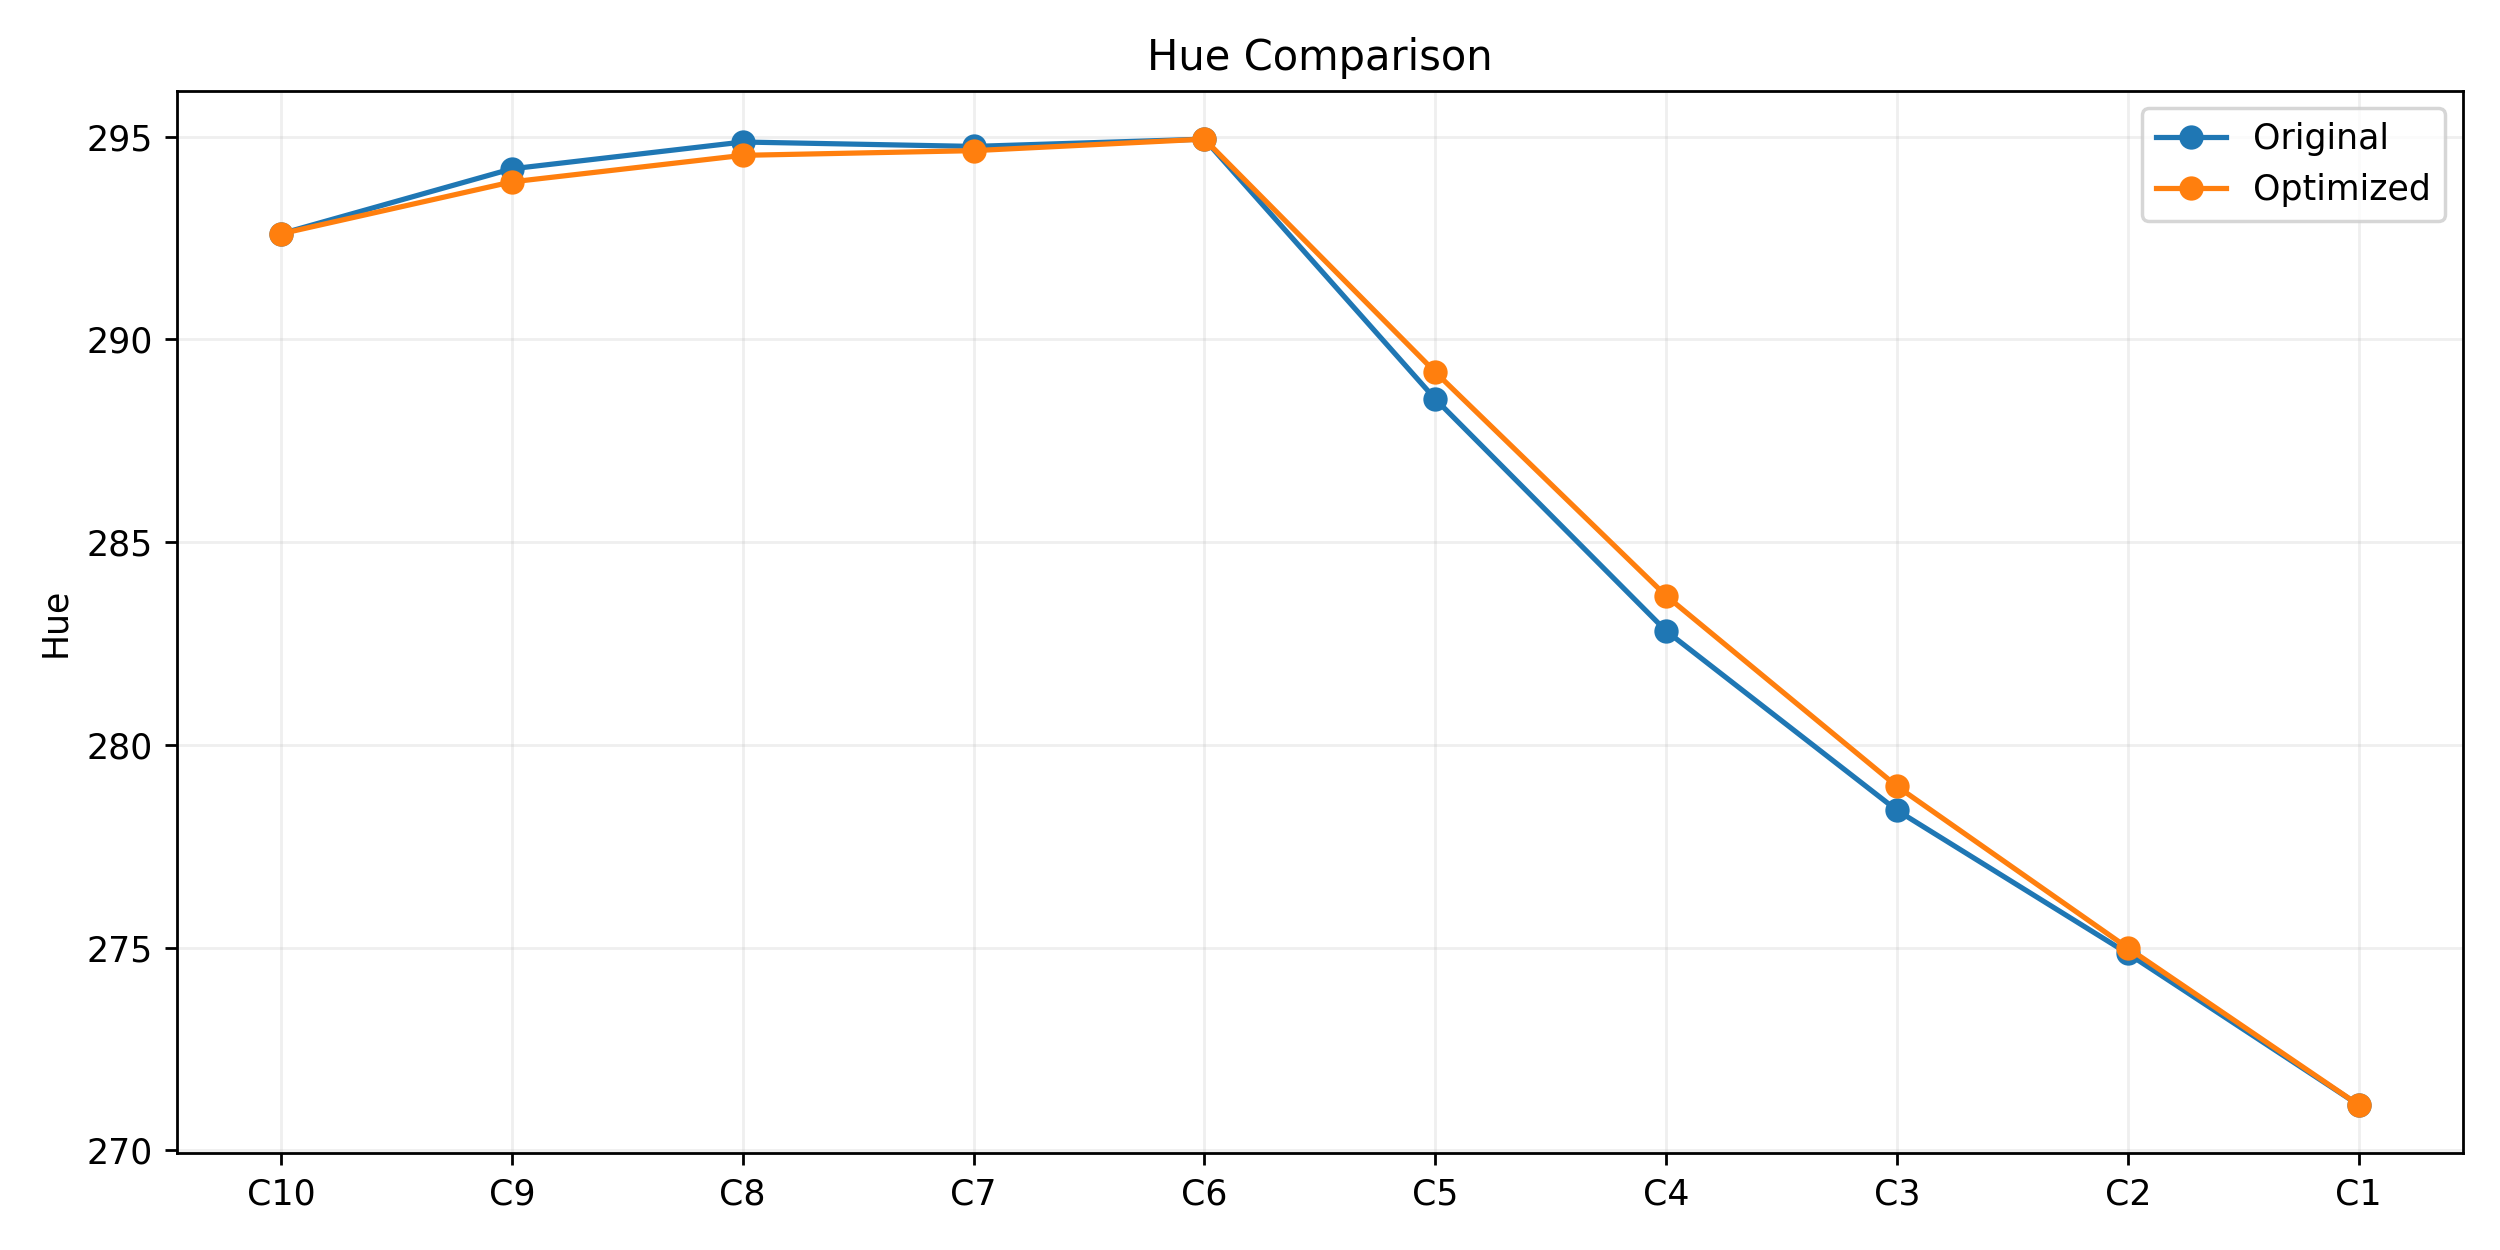
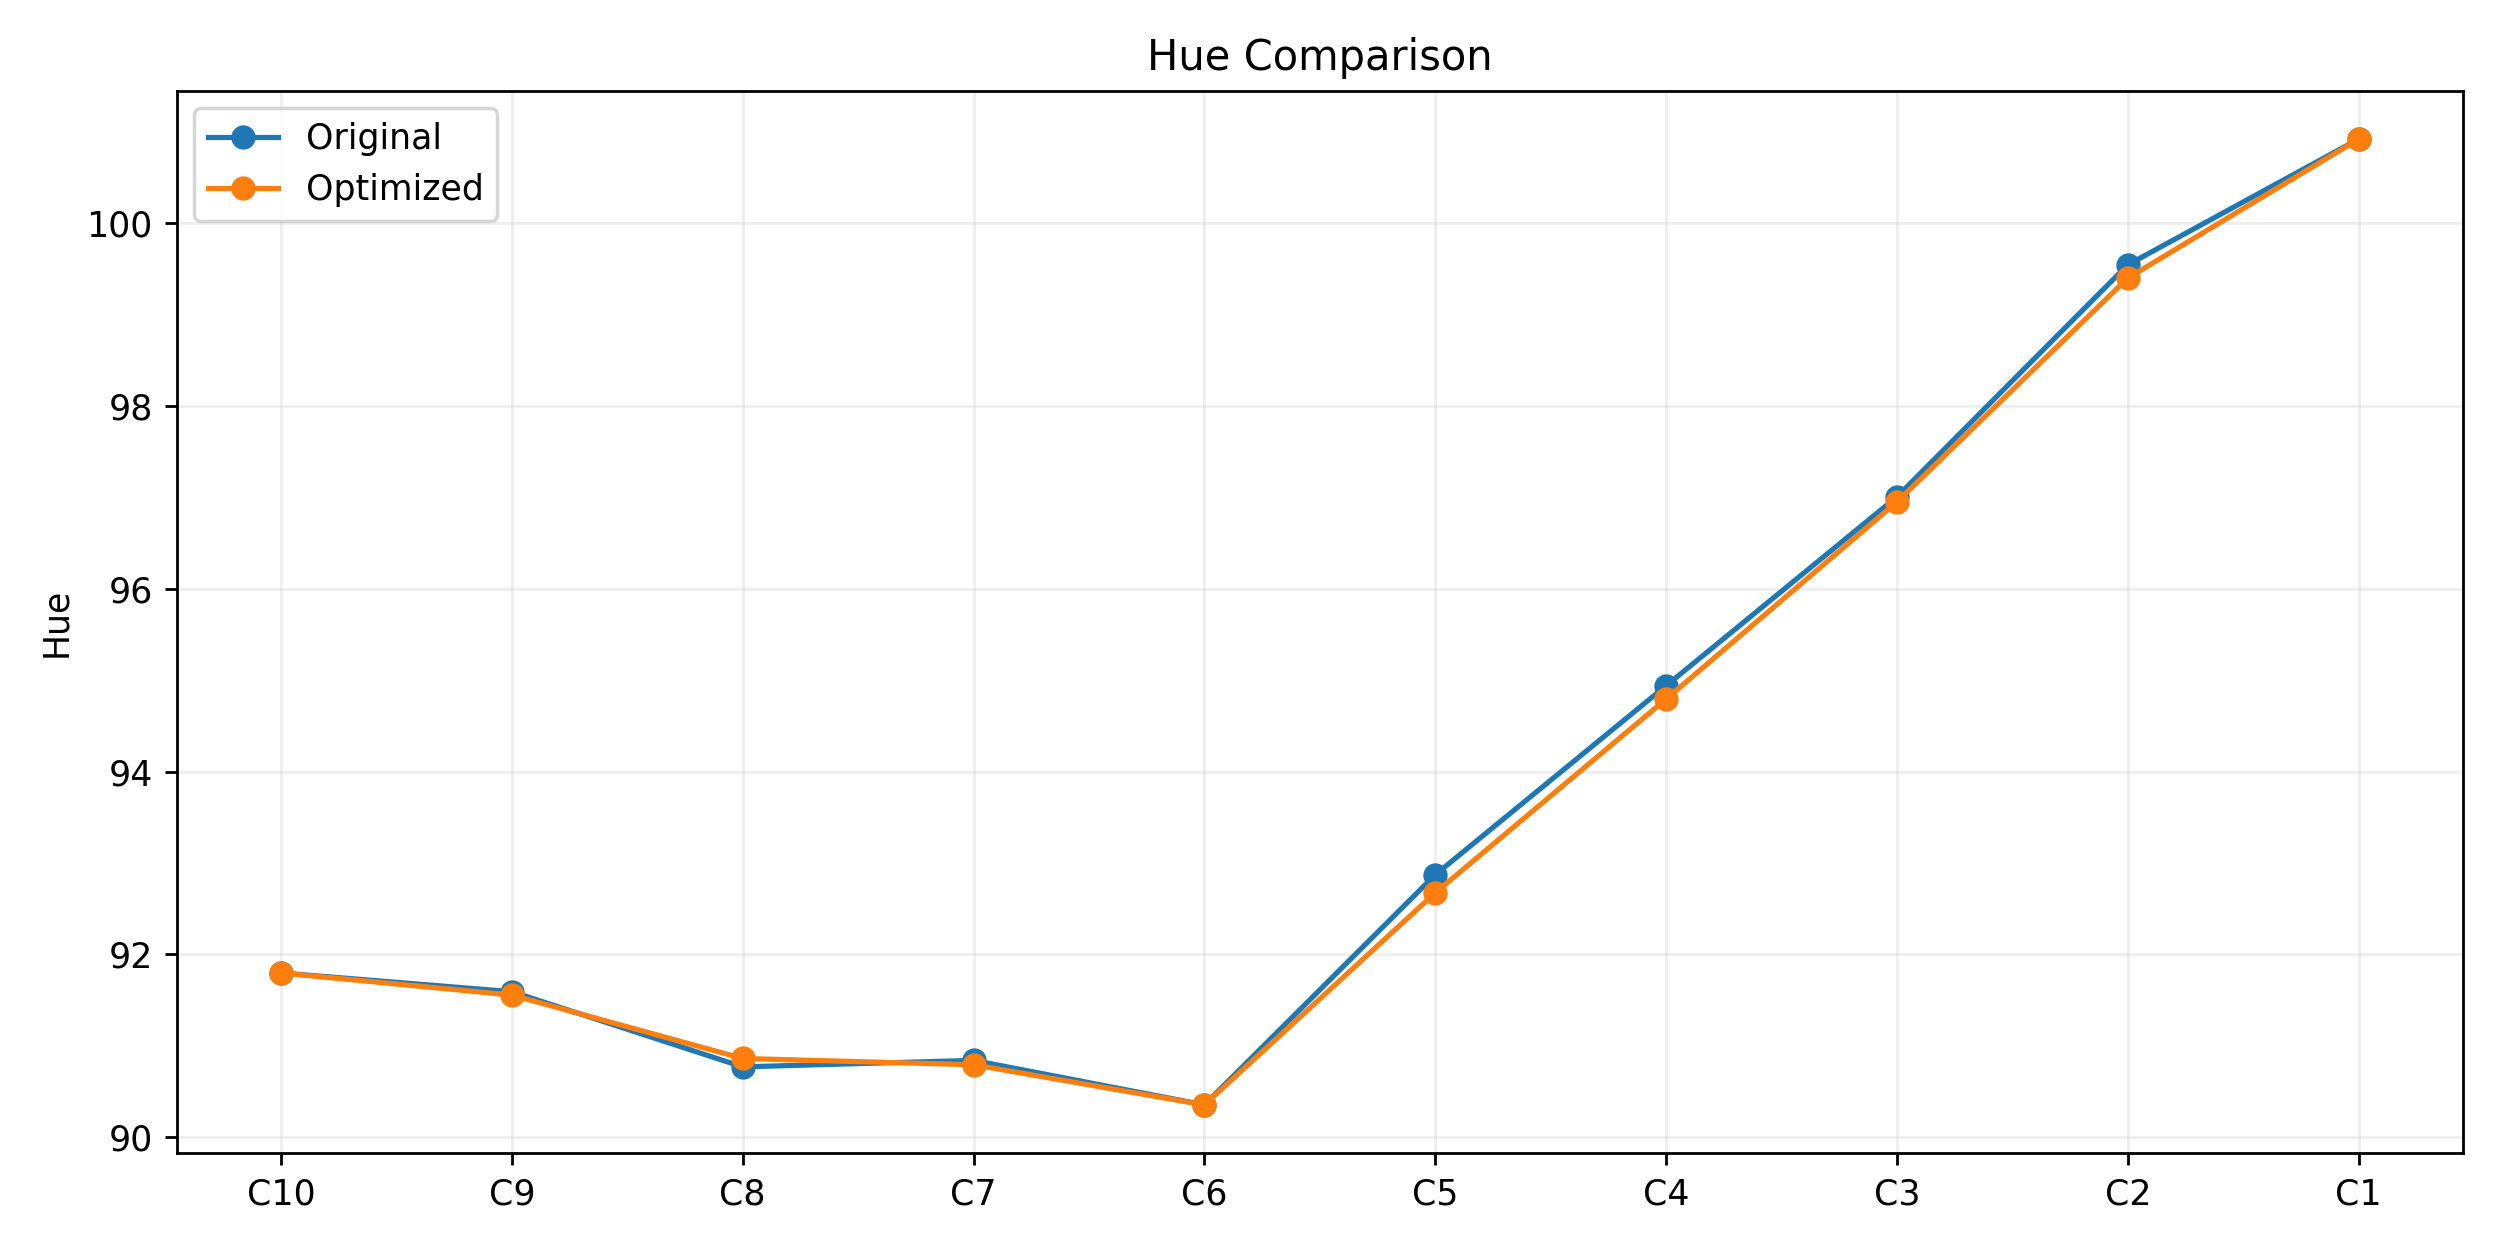
update: 清理旧输出文件，更新运行结果

diff --git a/optimize-existing-palette.py b/optimize-existing-palette.py
@@ -18,16 +18,16 @@ from skimage.color import rgb2lab, lab2rgb
 # ============================================================
 
 ORIGINAL_PALETTE = [
-    "#001a4d",  # C10
-    "#022975",  # C9
-    "#063aa1",  # C8
-    "#0c4bc9",  # C7
-    "#105cf4",  # C6
-    "#3b79f5",  # C5
-    "#6596f7",  # C4
-    "#91b4fa",  # C3
-    "#bdd2fc",  # C2
-    "#e8f0ff",  # C1
+    "#4d4000",  # C10
+    "#756200",  # C9
+    "#a18600",  # C8
+    "#c9a800",  # C7
+    "#f4cb00",  # C6
+    "#f5d42f",  # C5
+    "#f7dd5c",  # C4
+    "#fae789",  # C3
+    "#fcf1b8",  # C2
+    "#fffbe8",  # C1
 ]
 
 
